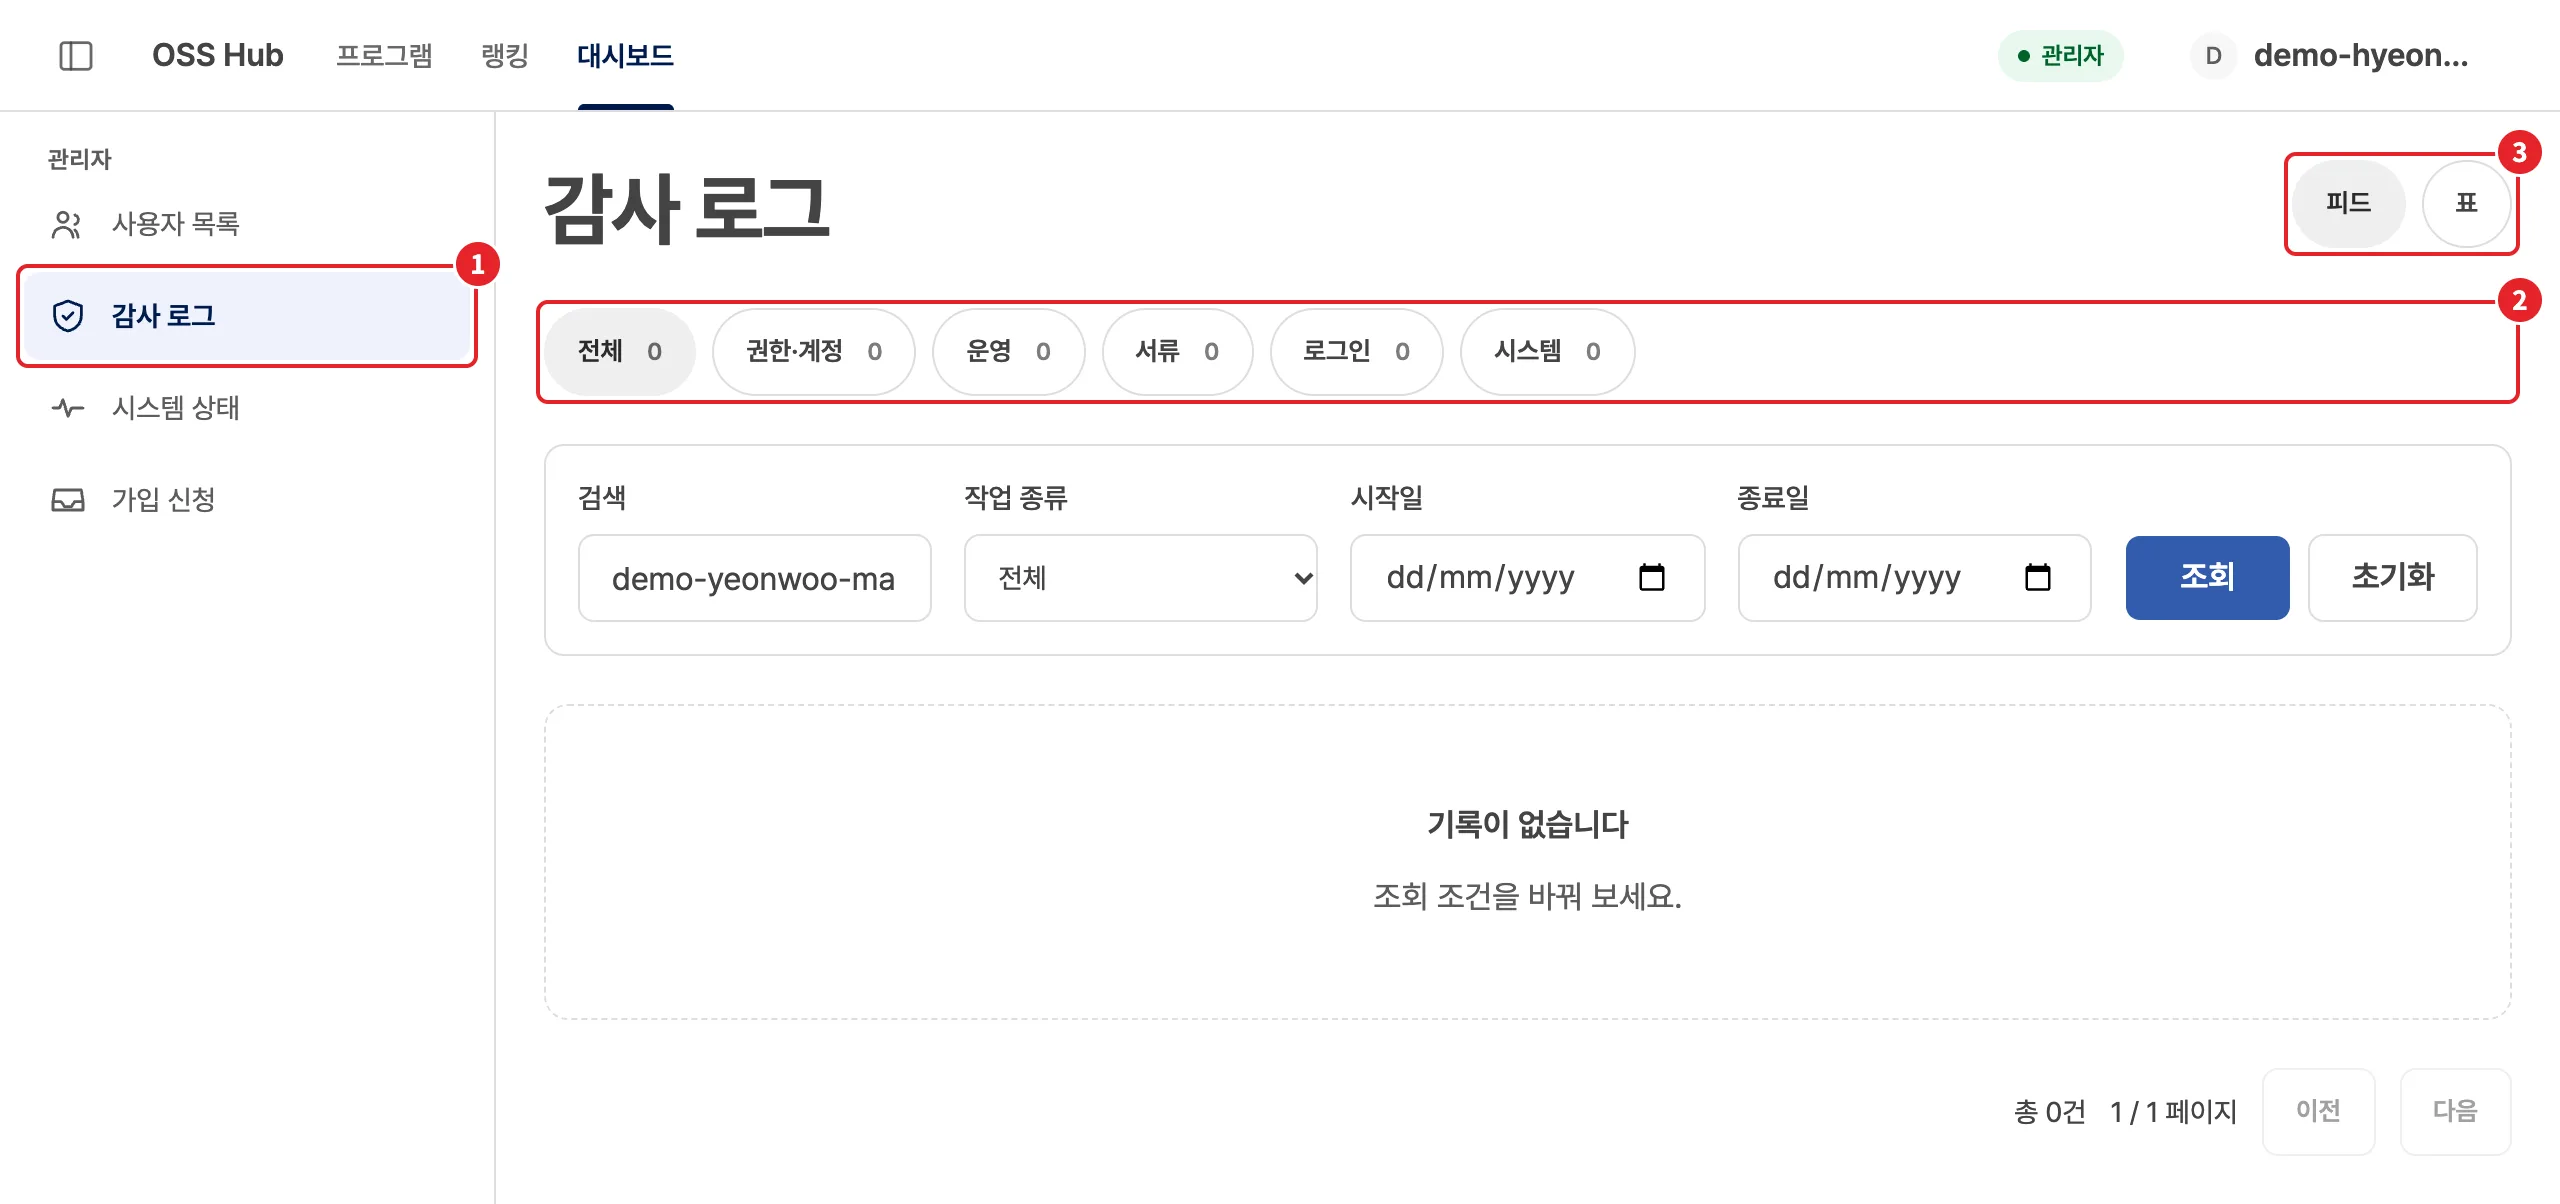
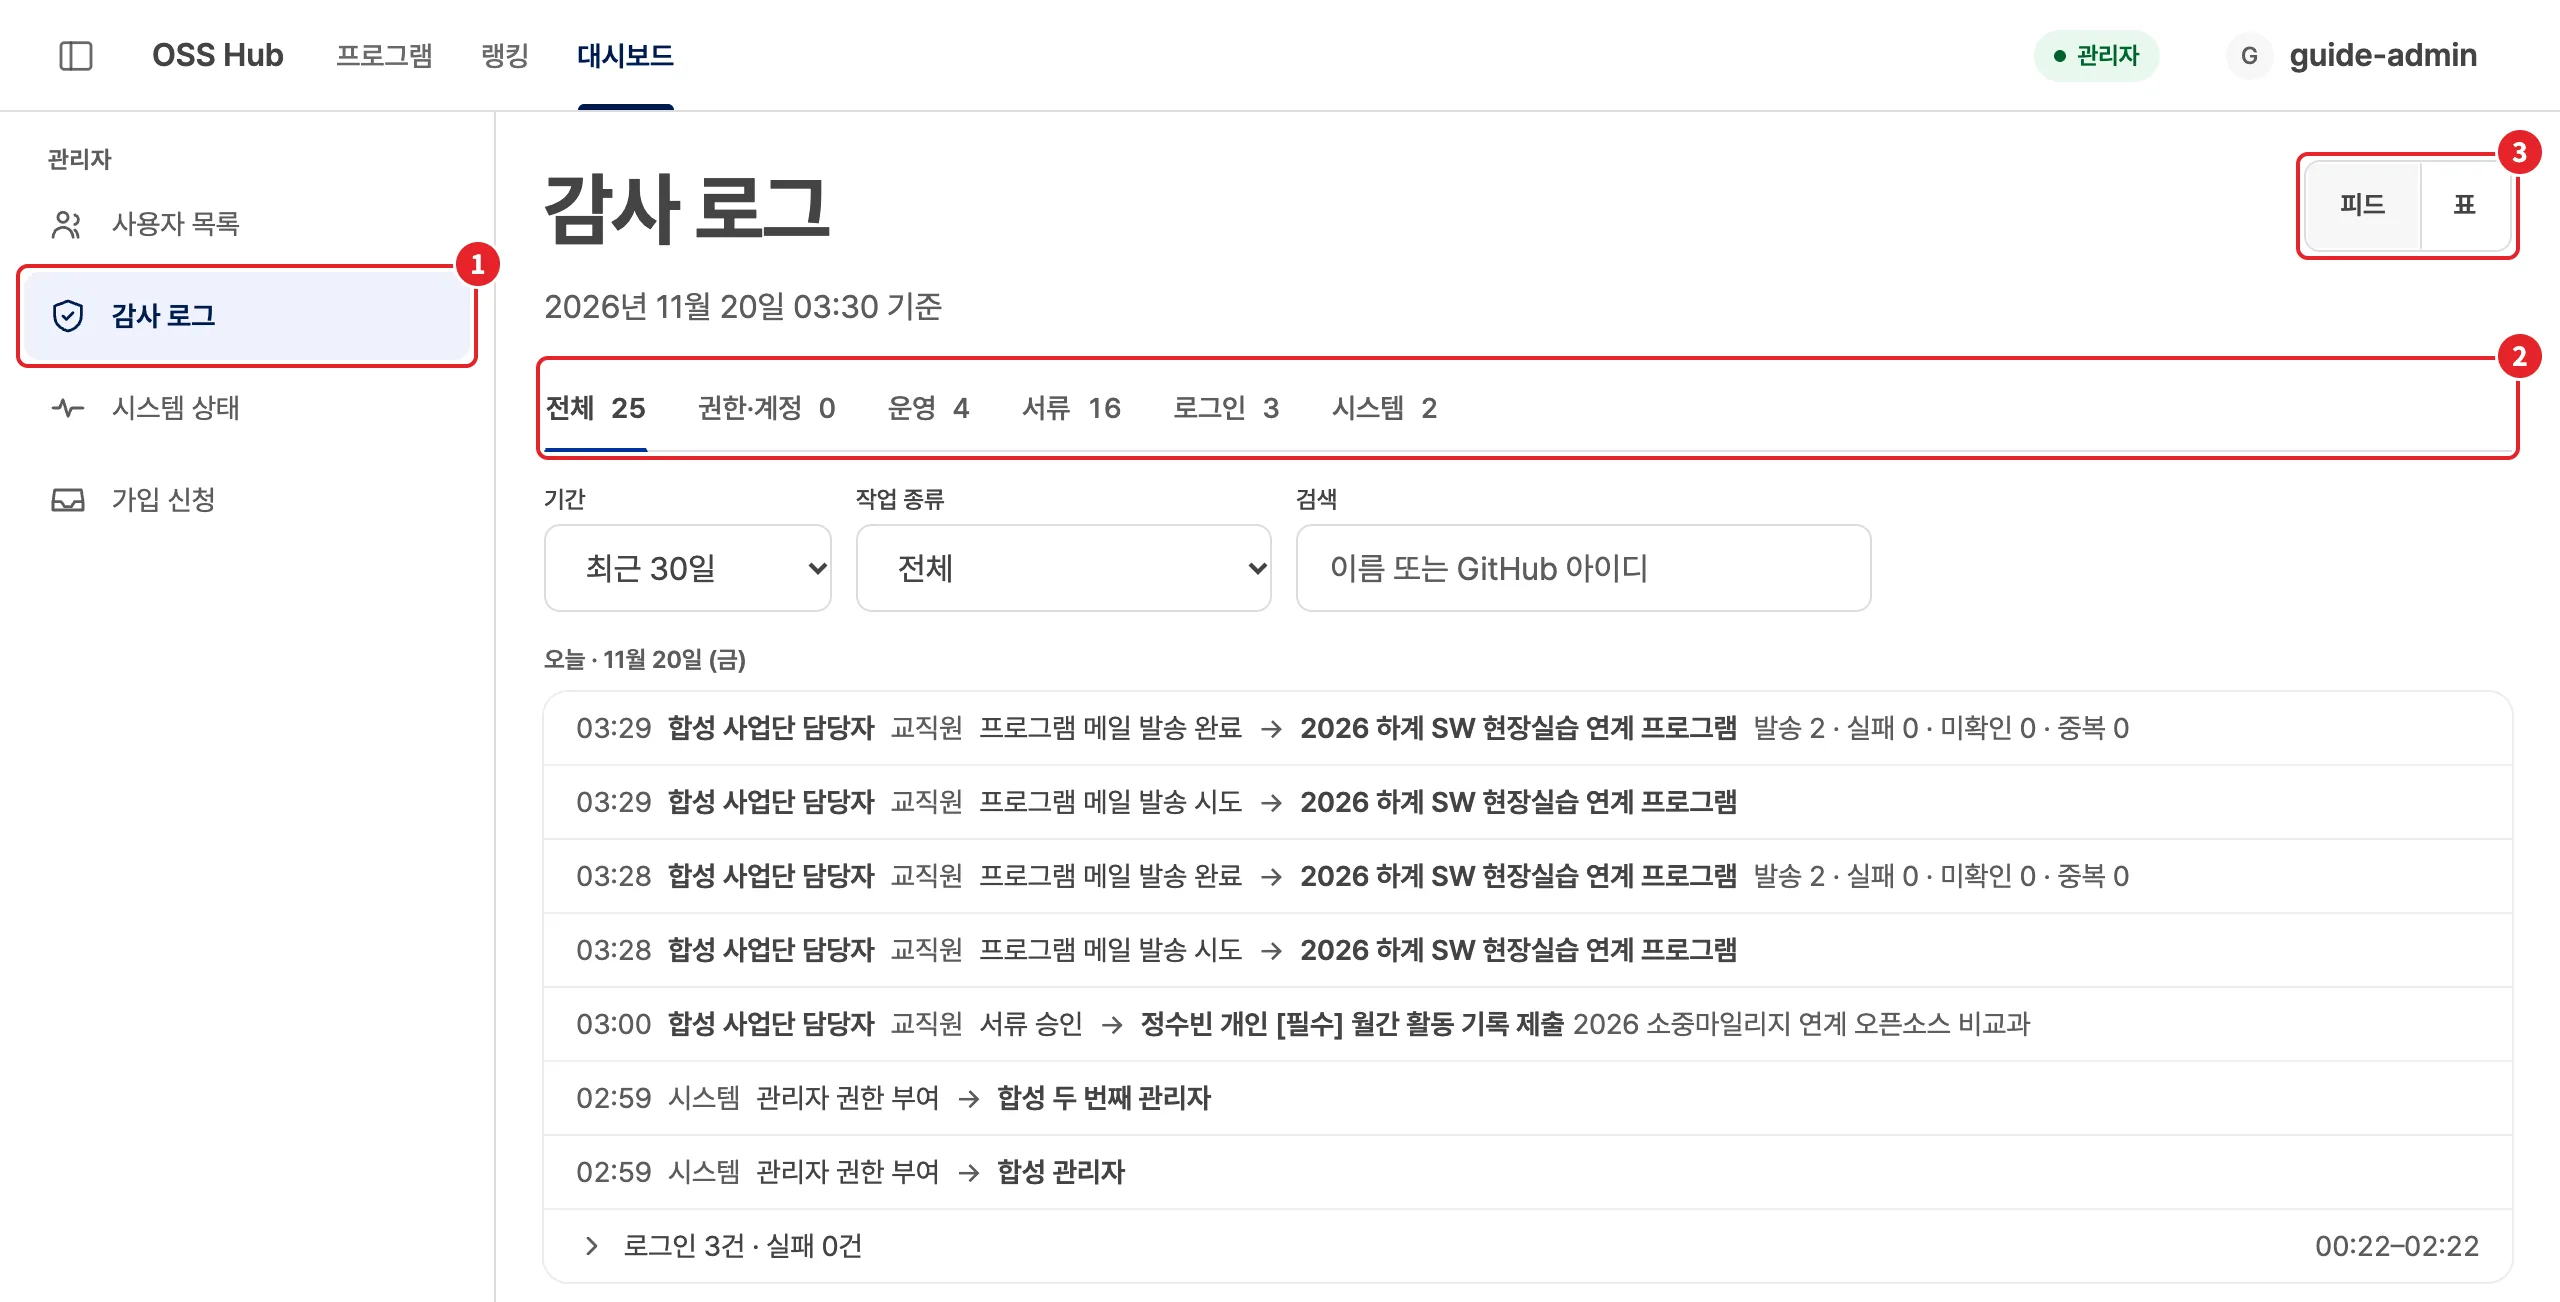
docs(guide): 랭킹과 메일 이력, 감사 로그 이용 방법을 갱신한다 (#1993)

diff --git a/guide/src/site.ts b/guide/src/site.ts
@@ -1,4 +1,4 @@
-export const lastChecked = '2026-11-19';
-export const releaseVersion = 'v0.24.118';
-export const checkedCommit = 'e90efc95ad39e37054b590e7a6f6c9a8b097d81b';
+export const lastChecked = '2026-11-20';
+export const releaseVersion = 'v0.24.120';
+export const checkedCommit = 'ca627f202a706076204514c2e76c7f41081d9ac0';
 export const serviceUrl = 'https://jnu-oss-hub.com';
